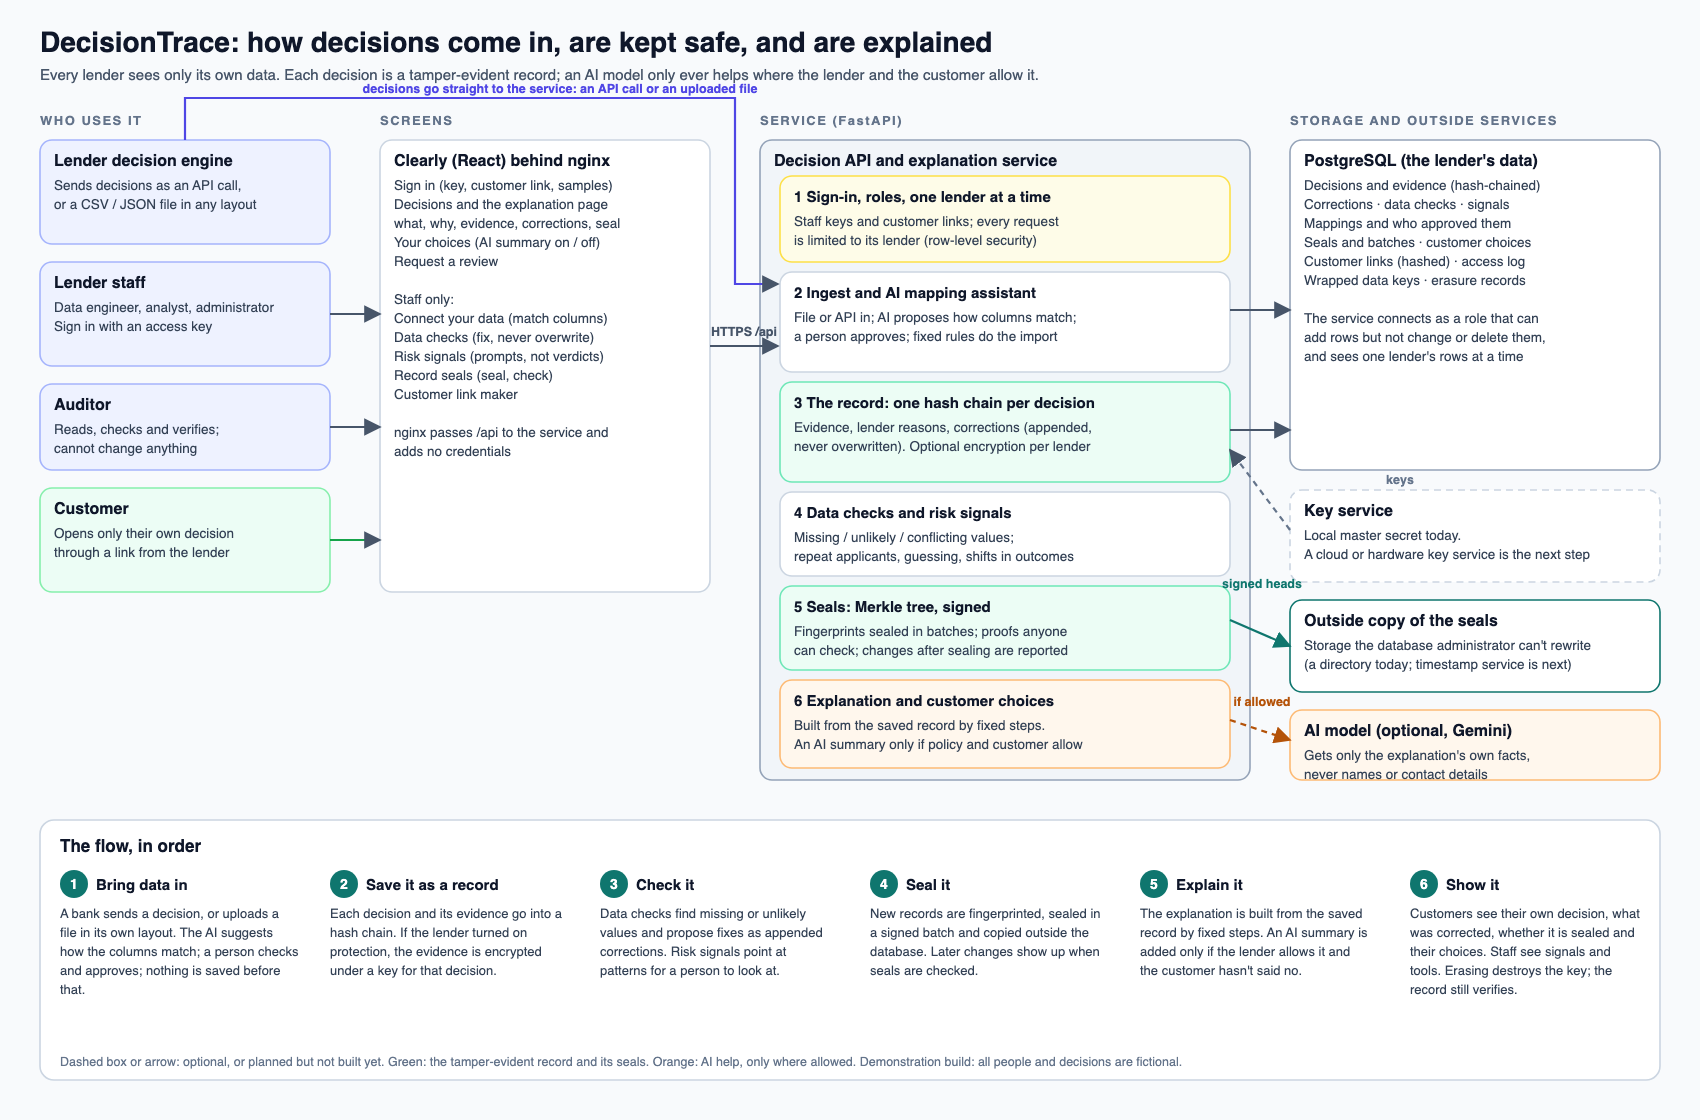
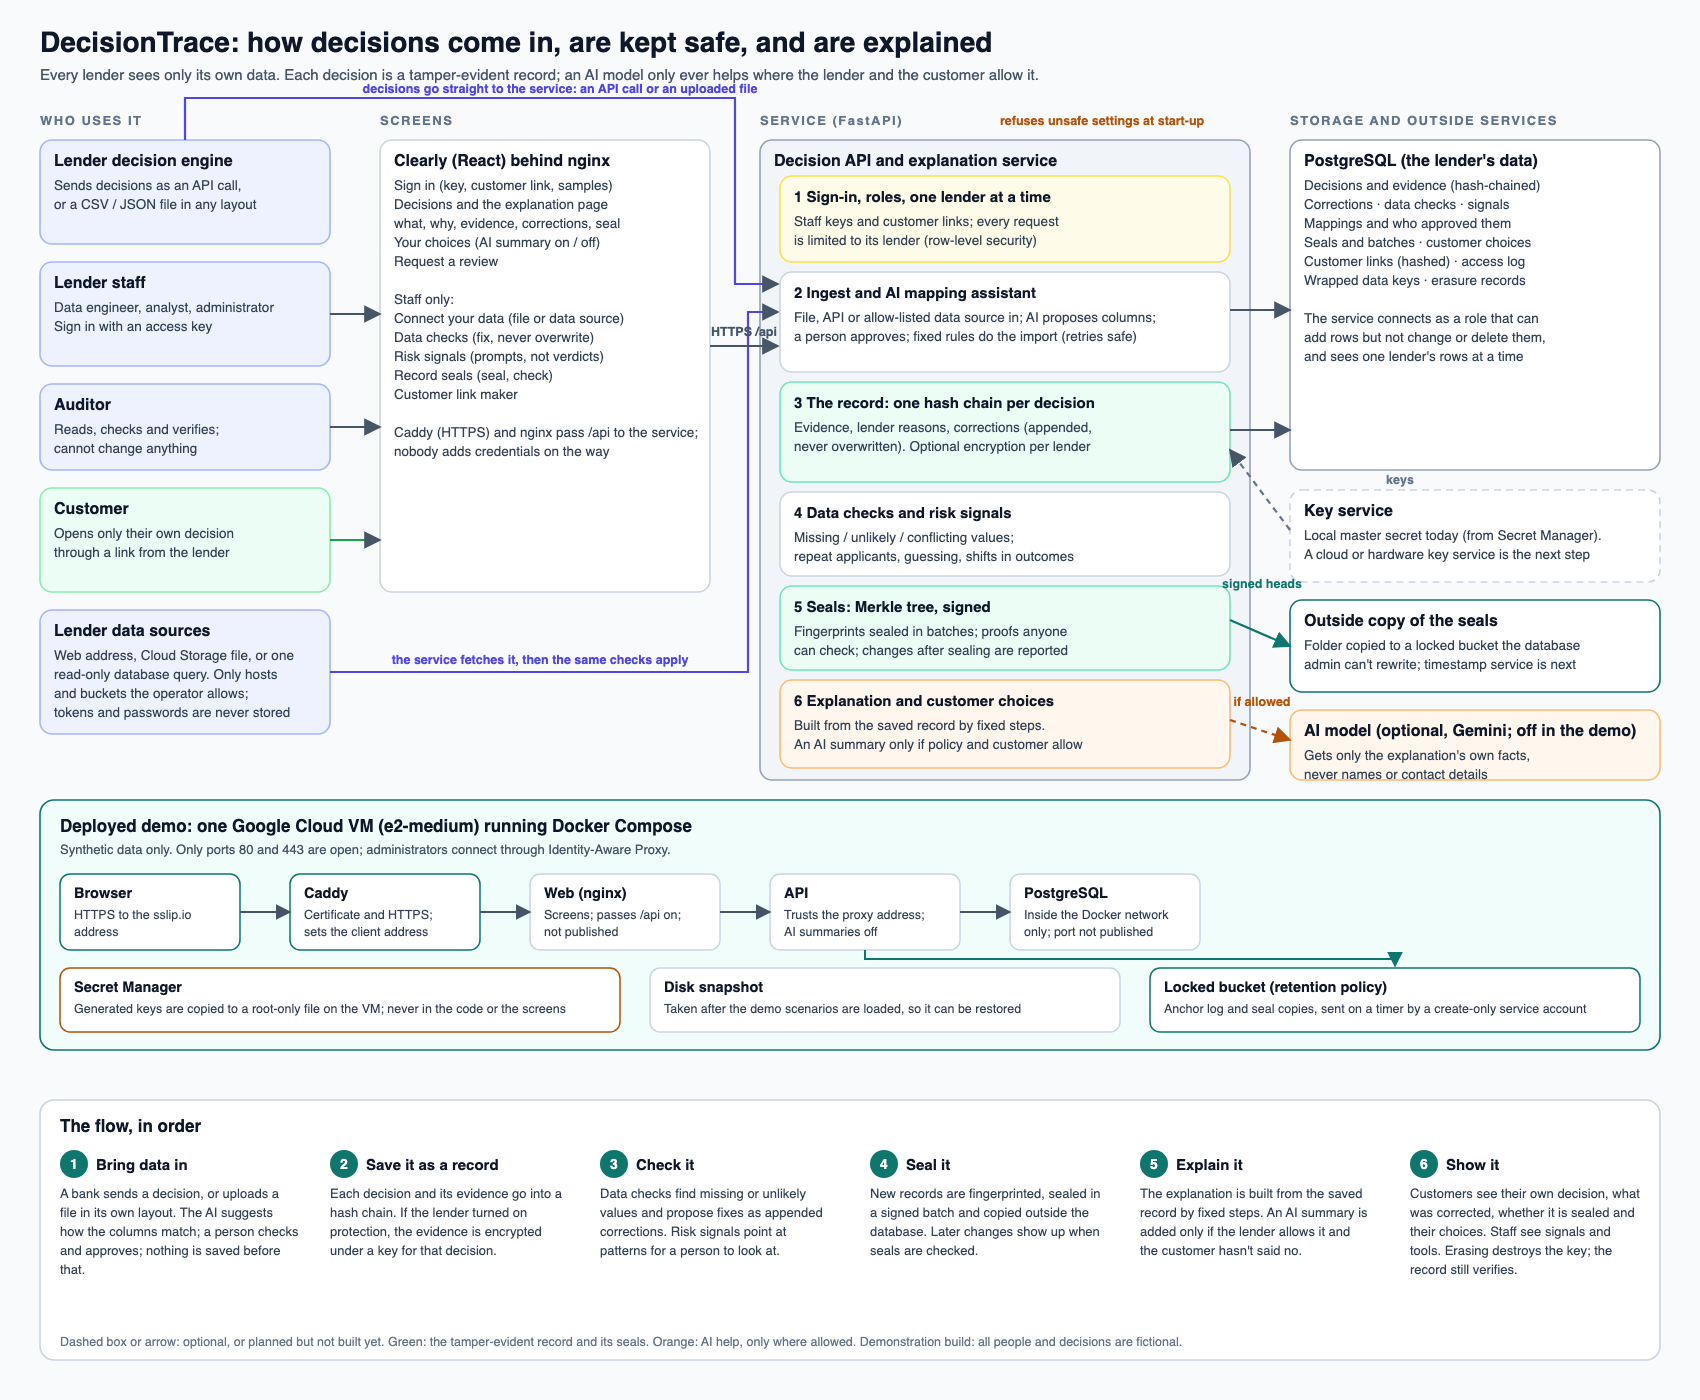
Ingest sources

Changed region(s): [[0.0, 0.0, 0.9665, 0.9062], [0.3429, 0.7812, 0.9665, 0.9062], [0.0312, 0.9375, 0.7171, 0.9688]]

diff --git a/frontend/src/pages/ConnectPage.tsx b/frontend/src/pages/ConnectPage.tsx
@@ -162,12 +162,20 @@ export const ConnectPage: React.FC<{ me?: Me | null }> = ({ me = null }) => {
   const importAll = async () => {
     if (mappingId == null) return;
     setError(null);
-    if (remote) {  // the server fetches the data itself, so it is loaded in one go (the server caps one load at 500 rows)
-      setBusy("Fetching and importing…");
+    if (remote) {  // the server fetches the data itself and loads it one page (up to 500 rows) at a time
+      const total = { created: 0, replayed: 0, rejected: 0, problems: [] as ImportSummary["results"] };
+      let offset: number | null = 0;
       try {
-        const r = await runImport(mappingId, { format: remote.format, source: remote.spec }, false, portfolio.trim() || undefined);
-        setSummary({ created: r.created, replayed: r.replayed, rejected: r.rejected, problems: r.results.filter((x) => x.status === "rejected") });
-      } catch (err) { fail(err); } finally { setBusy(null); }
+        while (offset !== null) {
+          setBusy("Fetching and importing…");
+          const r: ImportSummary = await runImport(mappingId, { format: remote.format, source: remote.spec }, false, portfolio.trim() || undefined, offset);
+          total.created += r.created; total.replayed += r.replayed; total.rejected += r.rejected;
+          total.problems.push(...r.results.filter((x) => x.status === "rejected"));
+          if (r.total_rows) setProgress(`${Math.min(r.total_rows, (r.next_offset ?? r.total_rows))} of ${r.total_rows} rows`);
+          offset = r.next_offset ?? null;
+        }
+        setSummary(total);
+      } catch (err) { fail(err); setSummary(total); } finally { setBusy(null); setProgress(null); }
       return;
     }
     if (!source) return;
@@ -447,7 +455,7 @@ export const ConnectPage: React.FC<{ me?: Me | null }> = ({ me = null }) => {
       {approved && (source || remote) && canImport && (
         <section className="cl-section" aria-labelledby="c3">
           <h2 id="c3" className="cl-h2">3. Import</h2>
-          <p className="cl-muted">{remote ? `This fetches your data from the ${remote.label} and saves it (up to 500 decisions at a time) with its evidence.` : `This saves ${source!.rows.length} decisions with their evidence.`} Running it again won’t create duplicates.</p>
+          <p className="cl-muted">{remote ? `This fetches your data from the ${remote.label} and saves it (in pages of 500) with its evidence.` : `This saves ${source!.rows.length} decisions with their evidence.`} Running it again won’t create duplicates.</p>
           <label className="cl-field"><span>Group these decisions (optional)</span>
             <input type="text" value={portfolio} maxLength={64} onChange={(e) => setPortfolio(e.target.value)} placeholder="For example: Leeds branch" />
             <small className="cl-muted">Your team administrator can limit a person to some groups.</small>

diff --git a/frontend/src/__tests__/connect.test.tsx b/frontend/src/__tests__/connect.test.tsx
@@ -138,6 +138,35 @@ describe("Connect your data", () => {
     expect(imp.body.rows).toBeUndefined();
   });
 
+  test("a large data source is loaded page after page until the server says it is done", async () => {
+    const calls = installFetch();
+    const base = (globalThis as unknown as { fetch: jest.Mock }).fetch;
+    (globalThis as unknown as { fetch: unknown }).fetch = jest.fn(async (url: string, init: RequestInit) => {
+      const body = JSON.parse(String(init.body));
+      if (url.endsWith("/v1/imports")) {
+        calls.push({ url, body, headers: init.headers as Record<string, string> });
+        const off = body.offset ?? 0;
+        const last = off >= 1000;
+        return { ok: true, status: 200, json: async () => ({ mapping_id: 8, version: 2, dry_run: false, created: 500, replayed: 0, rejected: 0, total_rows: 1500, next_offset: last ? null : off + 500, results: [] }) };
+      }
+      return base(url, init);
+    });
+    render(<ConnectPage />);
+    fireEvent.click(screen.getByText("Or fetch it from a data source"));
+    await userEvent.type(screen.getByLabelText("Web address"), "https://files.bank.example/big.csv");
+    fireEvent.click(screen.getByRole("button", { name: "Use this data source" }));
+    fireEvent.click(await screen.findByRole("button", { name: "Check my data" }));
+    const table = await screen.findByTestId("match-table");
+    await userEvent.selectOptions(within(table).getByLabelText("Column for Model version"), "A fixed value…");
+    await userEvent.type(within(table).getByLabelText("Fixed value for Model version"), "m4");
+    await userEvent.selectOptions(screen.getByText("“R”").closest("label")!.querySelector("select")!, "Referred");
+    fireEvent.click(screen.getByRole("button", { name: "Approve this match" }));
+    fireEvent.click(await screen.findByRole("button", { name: "Fetch and import" }));
+    expect(await screen.findByTestId("import-summary")).toHaveTextContent("1500 saved");
+    const imports = calls.filter((c) => c.url.endsWith("/v1/imports"));
+    expect(imports.map((c) => c.body.offset)).toEqual([undefined, 500, 1000]);
+  });
+
   test("a database source asks for one read-only query and is always read as JSON rows", async () => {
     const calls = installFetch();
     render(<ConnectPage />);

diff --git a/frontend/src/api.ts b/frontend/src/api.ts
@@ -225,8 +225,10 @@ export async function approveMapping(mappingId: number, note = ""): Promise<Mapp
   return postJson<MappingRecord>(`/v1/mappings/${mappingId}/approve`, { note });
 }
 
-export async function runImport(mappingId: number, source: SourceData, dryRun = false, portfolio?: string): Promise<ImportSummary> {
-  return postJson<ImportSummary>("/v1/imports", { mapping_id: mappingId, dry_run: dryRun, ...source, ...(portfolio ? { portfolio } : {}) });
+export async function runImport(mappingId: number, source: SourceData, dryRun = false, portfolio?: string, offset = 0): Promise<ImportSummary> {
+  return postJson<ImportSummary>("/v1/imports", {
+    mapping_id: mappingId, dry_run: dryRun, ...source, ...(portfolio ? { portfolio } : {}), ...(offset ? { offset } : {}),
+  });
 }
 
 export async function fetchMappings(): Promise<MappingListItem[]> {

diff --git a/frontend/src/types.ts b/frontend/src/types.ts
@@ -193,6 +193,9 @@ export interface ImportSummary {
   created: number;
   replayed: number;
   rejected: number;
+  /** Only for data sources: how many rows the source has, and where the next page starts (null on the last page). */
+  total_rows?: number;
+  next_offset?: number | null;
   results: Array<{ row: number; status: string; problems?: string[] }>;
 }
 

diff --git a/tests/test_startup_checks.py b/tests/test_startup_checks.py
@@ -14,7 +14,7 @@ from backend.crypto import DEV_MASTER
 from backend.merkle import DEV_SEED
 from backend.startup_checks import UnsafeConfigError, check_startup_config, config_problems
 
-NAMES = ["ENV", "DT_SEAL_KEY", "DT_MASTER_KEY", "DT_ID_SECRET", "DT_ANCHOR_LOG", "DT_SEAL_PUBLISH_DIR", "CORS_ORIGINS"]
+NAMES = ["ENV", "APP_DB_URL", "DT_SEAL_KEY", "DT_MASTER_KEY", "DT_ID_SECRET", "DT_ANCHOR_LOG", "DT_SEAL_PUBLISH_DIR", "CORS_ORIGINS"]
 
 
 def _b64(raw: bytes) -> str:
@@ -29,6 +29,7 @@ def good_env(monkeypatch: pytest.MonkeyPatch, tmp_path: Path) -> pytest.MonkeyPa
     monkeypatch.setenv("ENV", "prod")
     monkeypatch.setenv("DT_SEAL_KEY", _b64(os.urandom(32)))
     monkeypatch.setenv("DT_MASTER_KEY", _b64(os.urandom(32)))
+    monkeypatch.setenv("APP_DB_URL", "postgresql://app_role:Zk3fPq9@postgres:5432/decisiontrace")
     monkeypatch.setenv("DT_ID_SECRET", "a-long-random-secret-value")
     monkeypatch.setenv("DT_ANCHOR_LOG", str(tmp_path / "anchors.jsonl"))
     monkeypatch.setenv("DT_SEAL_PUBLISH_DIR", str(tmp_path / "seals"))
@@ -56,7 +57,7 @@ def test_everything_missing_is_reported_at_once(monkeypatch: pytest.MonkeyPatch)
         check_startup_config()
     text = str(exc.value)
     for name in NAMES[1:]:
-        assert name in text
+        assert name in text, name
 
 
 @pytest.mark.parametrize(
@@ -66,6 +67,7 @@ def test_everything_missing_is_reported_at_once(monkeypatch: pytest.MonkeyPatch)
         ("DT_MASTER_KEY", _b64(DEV_MASTER), "development default"),
         ("DT_SEAL_KEY", _b64(b"short"), "32 bytes"),
         ("DT_MASTER_KEY", "not base64 !!", "base64"),
+        ("APP_DB_URL", "postgresql://app_role:app_role_local_dev@postgres:5432/x", "development password"),
         ("DT_ID_SECRET", "changeme", "DT_ID_SECRET"),
         ("DT_ID_SECRET", "tooshort", "16 characters"),
         ("DT_ANCHOR_LOG", "/no/such/dir/anchors.jsonl", "does not exist"),
@@ -92,3 +94,31 @@ def test_apps_refuse_to_start_when_unsafe(monkeypatch: pytest.MonkeyPatch) -> No
         with pytest.raises(UnsafeConfigError):
             with TestClient(application):
                 pass
+
+
+def test_app_role_password_is_replaced_when_requested(monkeypatch: pytest.MonkeyPatch) -> None:
+    """APP_DB_PASSWORD swaps the development password; without it nothing changes."""
+    import psycopg
+    from psycopg.conninfo import conninfo_to_dict, make_conninfo
+
+    from backend.migrate import set_app_role_password
+
+    owner = os.environ["DB_URL"]
+    new_pw = "Rot4ted" + os.urandom(6).hex()
+    with psycopg.connect(owner, connect_timeout=5) as conn:
+        monkeypatch.delenv("APP_DB_PASSWORD", raising=False)
+        assert set_app_role_password(conn) is False
+        monkeypatch.setenv("APP_DB_PASSWORD", new_pw)
+        assert set_app_role_password(conn) is True
+        conn.commit()
+    d = conninfo_to_dict(owner)
+    try:
+        with psycopg.connect(make_conninfo(owner, user="app_role", password=new_pw), connect_timeout=5) as c:
+            assert c.execute("SELECT current_user").fetchone()[0] == "app_role"
+        with pytest.raises(psycopg.OperationalError):
+            psycopg.connect(make_conninfo(owner, user="app_role", password="app_role_local_dev"), connect_timeout=5)
+    finally:  # put the development password back for the rest of the suite
+        with psycopg.connect(owner, connect_timeout=5) as conn:
+            conn.execute("ALTER ROLE app_role WITH LOGIN PASSWORD 'app_role_local_dev'")
+            conn.commit()
+    assert d.get("dbname")

diff --git a/decision_api/mappings_api.py b/decision_api/mappings_api.py
@@ -59,6 +59,7 @@ class ImportRequest(SourceData):
     mapping_id: int
     dry_run: bool = False
     portfolio: str | None = Field(default=None, min_length=1, max_length=64, description="Label every row loaded with this group (branch, product, region)")
+    offset: int = Field(default=0, ge=0, description="With a `source`: skip this many rows, to load a larger source one page at a time")
 
 
 def _status(conn: psycopg.Connection[Any], mapping_id: int) -> tuple[str, str | None]:
@@ -211,7 +212,15 @@ def import_file(req: ImportRequest, principal: Principal = Depends(require_scope
     if req.dry_run and "mappings:write" not in principal.scopes and "ingest:write" not in principal.scopes:
         raise HTTPException(status_code=403, detail="This sign-in isn't allowed to do that.")
     _, rows = _rows(req)
-    if len(rows) > MAX_IMPORT_ROWS:
+    total_rows = len(rows)
+    first_row = 1
+    next_offset: int | None = None
+    if req.source is not None:  # a source is fetched whole each time; load it a page at a time
+        rows = rows[req.offset: req.offset + MAX_IMPORT_ROWS]
+        first_row = req.offset + 1
+        if req.offset + MAX_IMPORT_ROWS < total_rows:
+            next_offset = req.offset + MAX_IMPORT_ROWS
+    elif len(rows) > MAX_IMPORT_ROWS:
         raise HTTPException(status_code=422, detail=f"Please send at most {MAX_IMPORT_ROWS} rows at a time.")
 
     with tenant_connection(principal.tenant_id) as conn:
@@ -223,7 +232,7 @@ def import_file(req: ImportRequest, principal: Principal = Depends(require_scope
         results: list[dict[str, Any]] = []
         new_records: list[dict[str, Any]] = []
         tally = {"created": 0, "replayed": 0, "rejected": 0}
-        for i, row in enumerate(rows, start=1):
+        for i, row in enumerate(rows, start=first_row):
             env, errs = apply_mapping(spec, row, source_mapping=stamp)
             if env is not None and req.portfolio:
                 env = env.model_copy(update={"portfolio": req.portfolio})
@@ -278,4 +287,5 @@ def import_file(req: ImportRequest, principal: Principal = Depends(require_scope
         except OSError:
             logger.exception("Could not write chain-head anchor for %s", rec["decision_id"])
     return {"mapping_id": m["mapping_id"], "version": m["version"], "dry_run": req.dry_run, **tally,
+            "total_rows": total_rows, "next_offset": next_offset,
             "quality": quality, "signals": signals, "results": results}

diff --git a/tests/test_data_sources.py b/tests/test_data_sources.py
@@ -180,3 +180,38 @@ def test_import_from_a_url_matches_an_upload_and_is_idempotent(lenders: list[dic
     assert denied.status_code == 422 and "allowed data sources" in denied.text
     log = client.get("/v1/access-log?limit=50", headers=h(t["keys"]["lender_admin"])).json()
     assert any("source=url:bank.example" in str(r.get("object_id", "")) for r in log)
+
+
+def test_a_large_source_is_loaded_a_page_at_a_time(lenders: list[dict[str, Any]], monkeypatch: pytest.MonkeyPatch) -> None:
+    from decision_api import mappings_api
+
+    t = lenders[0]
+    client = TestClient(create_app())
+    mid = propose(client, t, "uk-paged", format="csv", content=UK).json()["mapping_id"]
+    approve(client, t, mid)
+    monkeypatch.setenv("DT_SOURCE_URL_ALLOWED_HOSTS", "bank.example")
+    public_dns(monkeypatch)
+    monkeypatch.setattr(ds, "_get", lambda url, headers: UK.encode("utf-8"))
+    monkeypatch.setattr(mappings_api, "MAX_IMPORT_ROWS", 15)
+    req = {"mapping_id": mid, "format": "csv", "source": {"type": "url", "url": "https://bank.example/x.csv"}}
+
+    seen_rows: list[int] = []
+    created = replayed = rejected = 0
+    offset: int | None = 0
+    pages = 0
+    while offset is not None:
+        r = client.post("/v1/imports", json={**req, "offset": offset}, headers=h(keys(t)[0]))
+        assert r.status_code == 200, r.text
+        body = r.json()
+        seen_rows += [x["row"] for x in body["results"]]
+        created, replayed, rejected = created + body["created"], replayed + body["replayed"], rejected + body["rejected"]
+        offset = body["next_offset"]
+        pages += 1
+        assert pages < 10
+    total = body["total_rows"]
+    assert pages == 3 and seen_rows == list(range(1, total + 1))  # every row once, numbered across pages
+    assert created + replayed + rejected == total and rejected == 0
+
+    # an uploaded file is not paged: too many rows is still refused
+    big = client.post("/v1/imports", json={"mapping_id": mid, "format": "csv", "content": UK}, headers=h(keys(t)[0]))
+    assert big.status_code == 422 and "at most 15" in big.text

diff --git a/backend/migrate.py b/backend/migrate.py
@@ -12,6 +12,7 @@ from pathlib import Path
 from typing import Any
 
 import psycopg
+from psycopg import sql
 
 from data.load_policies import get_db_url
 
@@ -22,12 +23,24 @@ MIGRATIONS_DIR = Path(__file__).resolve().parent.parent / "migrations"
 EXPECTED_TABLES = ("decisions", "tenants", "mappings", "quality_findings", "claim_links", "risk_signals")
 
 
+def set_app_role_password(conn: psycopg.Connection[Any]) -> bool:
+    """Replace the development password the migrations give `app_role` with APP_DB_PASSWORD, when that is set.
+
+    Every migration run resets the role to the development password, so this runs last. Returns True if it changed it."""
+    password = os.environ.get("APP_DB_PASSWORD", "").strip()
+    if not password:
+        return False
+    conn.execute(sql.SQL("ALTER ROLE app_role WITH LOGIN PASSWORD {}").format(sql.Literal(password)))
+    return True
+
+
 def apply_migrations(db_url: str | None = None) -> list[str]:
     applied = []
     with psycopg.connect(get_db_url(db_url), connect_timeout=5) as conn:
         for path in sorted(MIGRATIONS_DIR.glob("*.sql")):
             conn.execute(path.read_text(encoding="utf-8"))
             applied.append(path.name)
+        set_app_role_password(conn)
         conn.commit()
     return applied
 

diff --git a/backend/startup_checks.py b/backend/startup_checks.py
@@ -70,6 +70,12 @@ def config_problems() -> list[str]:
     elif len(id_secret) < 16:
         problems.append("DT_ID_SECRET must be at least 16 characters.")
 
+    app_db = os.environ.get("APP_DB_URL", "").strip()
+    if not app_db:
+        problems.append("APP_DB_URL is not set (the API would connect as the owner role and bypass row-level security).")
+    elif "app_role_local_dev" in app_db:
+        problems.append("APP_DB_URL still uses the development password for app_role (set APP_DB_PASSWORD).")
+
     _check_writable_dir("DT_ANCHOR_LOG", problems, is_file=True)
     _check_writable_dir("DT_SEAL_PUBLISH_DIR", problems, is_file=False)
 

diff --git a/data/seed.py b/data/seed.py
@@ -63,7 +63,13 @@ def seed_database(
     apply_migrations(target)
     load_policies(db_url=target)
     train_and_register_model(db_url=target, sync_db=True)
-    return seed_scenarios(db_url=target, data_dir=data_dir)
+    results = seed_scenarios(db_url=target, data_dir=data_dir)
+    from backend.migrate import set_app_role_password  # last: any migration run resets the role to the development password
+
+    with psycopg.connect(target, connect_timeout=5) as conn:
+        set_app_role_password(conn)
+        conn.commit()
+    return results
 
 
 def main() -> None:

diff --git a/tests/test_ingest_robustness.py b/tests/test_ingest_robustness.py
@@ -78,3 +78,4 @@ def test_import_survives_an_unexpected_row_failure_and_keeps_the_rest(
     assert [r["row"] for r in bad] == [3] and "server problem" in bad[0]["problems"][0]
     assert body["created"] + body["replayed"] == len(body["results"]) - 1
     assert body["created"] > 3  # rows after the failure were still recorded
+

diff --git a/README.md b/README.md
@@ -76,9 +76,10 @@ Limits of this demo, stated plainly:
 - **In-process rate limiting and cache.** They are per process and reset on restart; they do not work across several instances.
 - **Anchors are only protected from casual edits.** The anchor log and signed seals are copied to a bucket with a retention policy, but someone with admin rights on the VM or project could still change what is written before it is copied.
 - **Gemini is disabled.** `LLM_BACKEND=fake`; summaries come from the scripted backend.
+- **Large data sources load a page (500 rows) at a time.** The source is fetched again for each page, so a database query that changes between pages can give a mixed result; use a fixed export for big loads.
 - **Data sources are off until allowed.** Importing from a URL, a storage bucket or a database needs the operator to list the hosts or buckets in `DT_SOURCE_URL_ALLOWED_HOSTS`, `DT_SOURCE_GCS_ALLOWED_BUCKETS` or `DT_SOURCE_SQL_ALLOWED_HOSTS`.
 - **The fairness check does not show a gap with the registered model.** `loan_lr_v1` gives `employment_months` almost no weight; the eval report says so and adds a labelled stress test showing the detector flags a proxy when a model really uses one.
-- The application database role still uses the development password from the migrations; it is reachable only inside the Compose network.
+- The API's database role (`app_role`) gets a generated password (`APP_DB_PASSWORD`) when the database is seeded, and the API refuses to start in a deployed setting while it still has the development one. Both database roles are reachable only inside the Compose network.
 
 Next: Cloud SQL for the database, Cloud KMS-backed keys, SSO and MFA, and Cloud Run (which also needs a shared rate limiter and cache).
 
